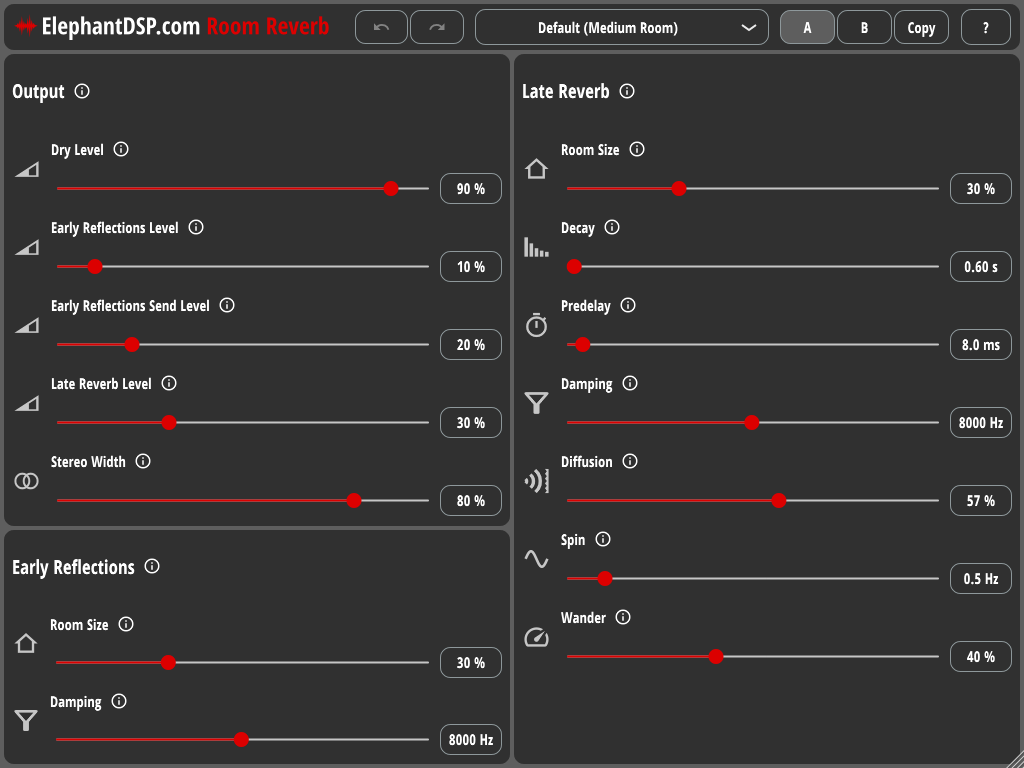
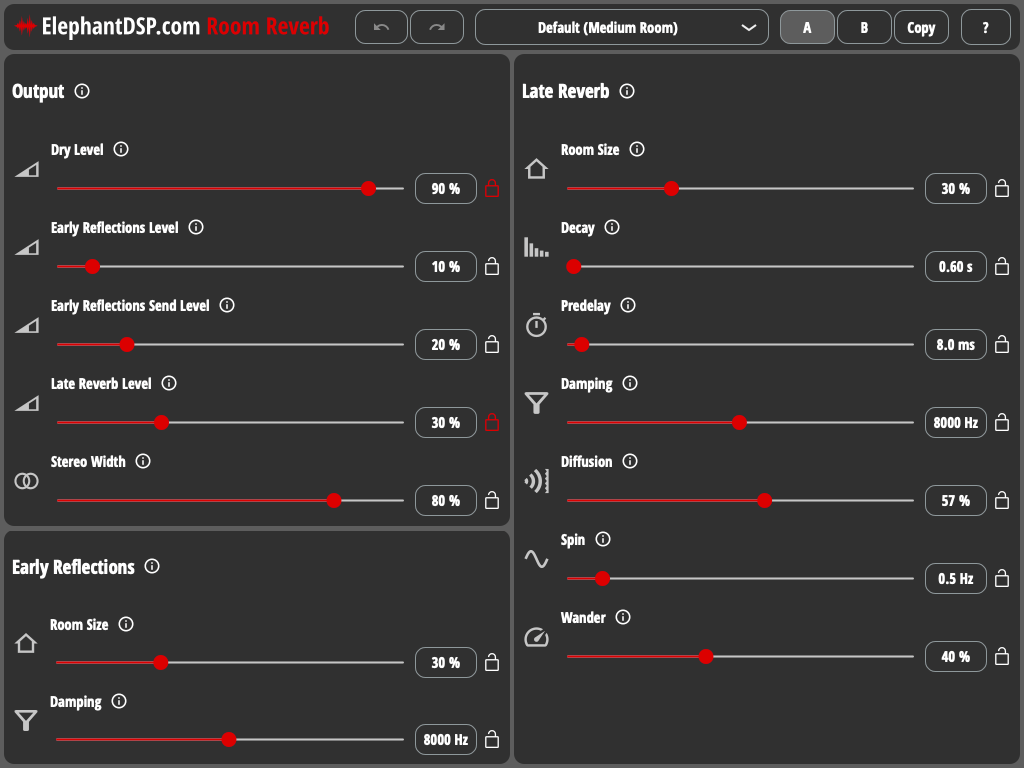
Added parameter lock feature

diff --git a/Source/Components/SliderComponent.cpp b/Source/Components/SliderComponent.cpp
@@ -27,11 +27,11 @@ SliderComponent::SliderComponent(
     const int binaryIconSize,
     const juce::String& parameterInfoText)
         : parameters(processor.getParameters()),
-          parameterSliderAttachment(processor.getParameters(), parameterID, parameterSlider)
+          parameterSliderAttachment(processor.getParameters(), parameterID, parameterSlider),
+          presetManager(processor.getPresetManager())
 {
-    parameterSlider.setTextValueSuffix(parameters.getParameter(parameterID)->getLabel());
-    parameterSlider.setTextBoxStyle(juce::Slider::TextBoxRight, false, 62, 22);
-    addAndMakeVisible(parameterSlider);
+    parameterIcon = juce::Drawable::createFromImageData(binaryIcon, binaryIconSize);
+    addAndMakeVisible(parameterIcon.get());
 
     parameterLabel.setText(parameters.getParameter(parameterID)->getName(40), juce::dontSendNotification);
     parameterLabel.setFont(juce::Font(20.0f));
@@ -41,8 +41,18 @@ SliderComponent::SliderComponent(
     parameterInfoButton.setTooltip(parameterInfoText);
     addAndMakeVisible(parameterInfoButton);
 
-    parameterIcon = juce::Drawable::createFromImageData(binaryIcon, binaryIconSize);
-    addAndMakeVisible(parameterIcon.get());
+    parameterSlider.setTextValueSuffix(parameters.getParameter(parameterID)->getLabel());
+    parameterSlider.setTextBoxStyle(juce::Slider::TextBoxRight, false, 62, 22);
+    addAndMakeVisible(parameterSlider);
+
+    parameterLockButton.setImages(juce::Drawable::createFromImageData(BinaryData::lock_open_svg, BinaryData::lock_open_svgSize).get(), nullptr, nullptr, nullptr, juce::Drawable::createFromImageData(BinaryData::lock_closed_svg, BinaryData::lock_closed_svgSize).get(), nullptr, nullptr, nullptr);
+    parameterLockButton.setTooltip("Lock this parameter to keep it when selecting another preset.");
+    parameterLockButton.setClickingTogglesState(true);
+    parameterLockButton.setToggleState(presetManager.isParameterLocked(parameterID), juce::dontSendNotification);
+    parameterLockButton.setColour(juce::DrawableButton::ColourIds::backgroundOnColourId, juce::Colours::transparentBlack);
+    parameterLockButton.onClick = [this, parameterID] { parameterLockButton.getToggleState() ? presetManager.lockParameter(parameterID) : presetManager.unlockParameter(parameterID); };
+
+    addAndMakeVisible(parameterLockButton);
 }
 
 void SliderComponent::paint(juce::Graphics& g)
@@ -54,7 +64,7 @@ void SliderComponent::resized()
 {
     auto area = getLocalBounds();
 
-    auto parameterIconArea = area.removeFromLeft(area.getHeight() * 0.5f);
+    auto parameterIconArea = area.removeFromLeft(area.getHeight() / 2);
     parameterIcon->setTransformToFit(parameterIconArea.toFloat().reduced(5), juce::RectanglePlacement::centred);
     parameterIcon->setBounds(parameterIconArea);
 
@@ -65,6 +75,8 @@ void SliderComponent::resized()
     // placing the info button
     parameterInfoButton.setBounds(labelAndInfo.getX(), labelAndInfo.getCentreY() - 12, 24, 24);
 
-    area.removeFromRight(5);
+    auto parameterLockButtonSize = area.removeFromRight(30).reduced(3);
+    parameterLockButton.setBounds(parameterLockButtonSize.getX(), parameterLockButtonSize.getCentreY() - 12, 24, 24);
+
     parameterSlider.setBounds(area);
 }

diff --git a/Source/PresetManager.cpp b/Source/PresetManager.cpp
@@ -20,8 +20,9 @@
 #include "PresetManager.h"
 #include <BinaryData.h>
 
-PresetManager::PresetManager(juce::AudioProcessorValueTreeState& parameterTree)
-        : parameters(parameterTree)
+PresetManager::PresetManager(juce::AudioProcessorValueTreeState& parameterTree, juce::ValueTree& appStateTree)
+        : parameters(parameterTree),
+          applicationState(appStateTree)
 {
     presets = {
         {"Default (Medium Room)", juce::ValueTree::fromXml(BinaryData::MediumRoom_xml)},
@@ -78,7 +79,19 @@ void PresetManager::setCurrentPreset(int presetIndex)
 {
     if (presetIndex >= 0 && presetIndex <= (int)presets.size())
     {
-        parameters.replaceState(presets.at((size_t)presetIndex).presetXml.createCopy());
+        auto newParameters = presets.at((size_t)presetIndex).presetXml.createCopy();
+
+        // keep values of locked parameters
+        for (int i = 0; i < newParameters.getNumChildren(); ++i)
+        {
+            const auto& parameterName = newParameters.getChild(i).getProperty("id").toString();
+            if (isParameterLocked(parameterName))
+            {
+                newParameters.getChild(i).setProperty("value", parameters.getParameterAsValue(parameterName), nullptr);
+            }
+        }
+
+        parameters.replaceState(newParameters);
         parameters.state.getOrCreateChildWithName("preset", nullptr).setProperty("selected", presetIndex, nullptr);
         parameters.undoManager->clearUndoHistory();
     }
@@ -101,4 +114,19 @@ juce::String PresetManager::getPresetName(int presetIndex) const
     }
     jassertfalse; // there is no such preset ...
     return {};
+}
+
+bool PresetManager::isParameterLocked(const juce::String& parameterID)
+{
+    return (bool)applicationState.getChildWithName("activeParameterLocks").getProperty(parameterID, false);
+}
+
+void PresetManager::lockParameter(const juce::String& parameterID)
+{
+    applicationState.getOrCreateChildWithName("activeParameterLocks", nullptr).setProperty(parameterID, true, nullptr);
+}
+
+void PresetManager::unlockParameter(const juce::String& parameterID)
+{
+    applicationState.getOrCreateChildWithName("activeParameterLocks", nullptr).setProperty(parameterID, false, nullptr);
 }

diff --git a/Source/Components/SliderComponent.h b/Source/Components/SliderComponent.h
@@ -20,6 +20,7 @@
 #pragma once
 
 #include "../PluginProcessor.h"
+#include "../PresetManager.h"
 #include <juce_audio_processors/juce_audio_processors.h>
 #include <juce_gui_basics/juce_gui_basics.h>
 
@@ -38,10 +39,12 @@ public:
 
 private:
     juce::AudioProcessorValueTreeState& parameters;
+    PresetManager& presetManager;
     std::unique_ptr<juce::Drawable> parameterIcon;
     juce::Label parameterLabel;
     juce::DrawableButton parameterInfoButton{"parameterInfoButton", juce::DrawableButton::ImageFitted};
     juce::Slider parameterSlider;
+    juce::DrawableButton parameterLockButton{"parameterLockButton", juce::DrawableButton::ImageFitted};
     juce::AudioProcessorValueTreeState::SliderAttachment parameterSliderAttachment;
 
     JUCE_DECLARE_NON_COPYABLE_WITH_LEAK_DETECTOR(SliderComponent)

diff --git a/Source/PresetManager.h b/Source/PresetManager.h
@@ -31,7 +31,7 @@ struct Preset
 class PresetManager
 {
 public:
-    PresetManager(juce::AudioProcessorValueTreeState& parameterTree);
+    PresetManager(juce::AudioProcessorValueTreeState& parameterTree, juce::ValueTree& appStateTree);
 
     int getNumPresets() const;
     int getCurrentPreset() const;
@@ -39,8 +39,13 @@ public:
     void setDefaultPreset();
     juce::String getPresetName(int presetIndex) const;
 
+    bool isParameterLocked(const juce::String& parameterID);
+    void lockParameter(const juce::String& parameterID);
+    void unlockParameter(const juce::String& parameterID);
+
 private:
     juce::AudioProcessorValueTreeState& parameters;
+    juce::ValueTree& applicationState;
     std::vector<Preset> presets;
 
     static constexpr int defaultPreset = 0;

diff --git a/Source/PluginProcessor.cpp b/Source/PluginProcessor.cpp
@@ -34,7 +34,7 @@ ReverbAudioProcessor::ReverbAudioProcessor()
                   ),
 #endif
           parameters(*this, &undo, "parameters", createParameterLayout()),
-          presetManager(parameters),
+          presetManager(parameters, applicationState),
           processorABStateManager(parameters, applicationState)
 {
     // add a listener for each parameter
